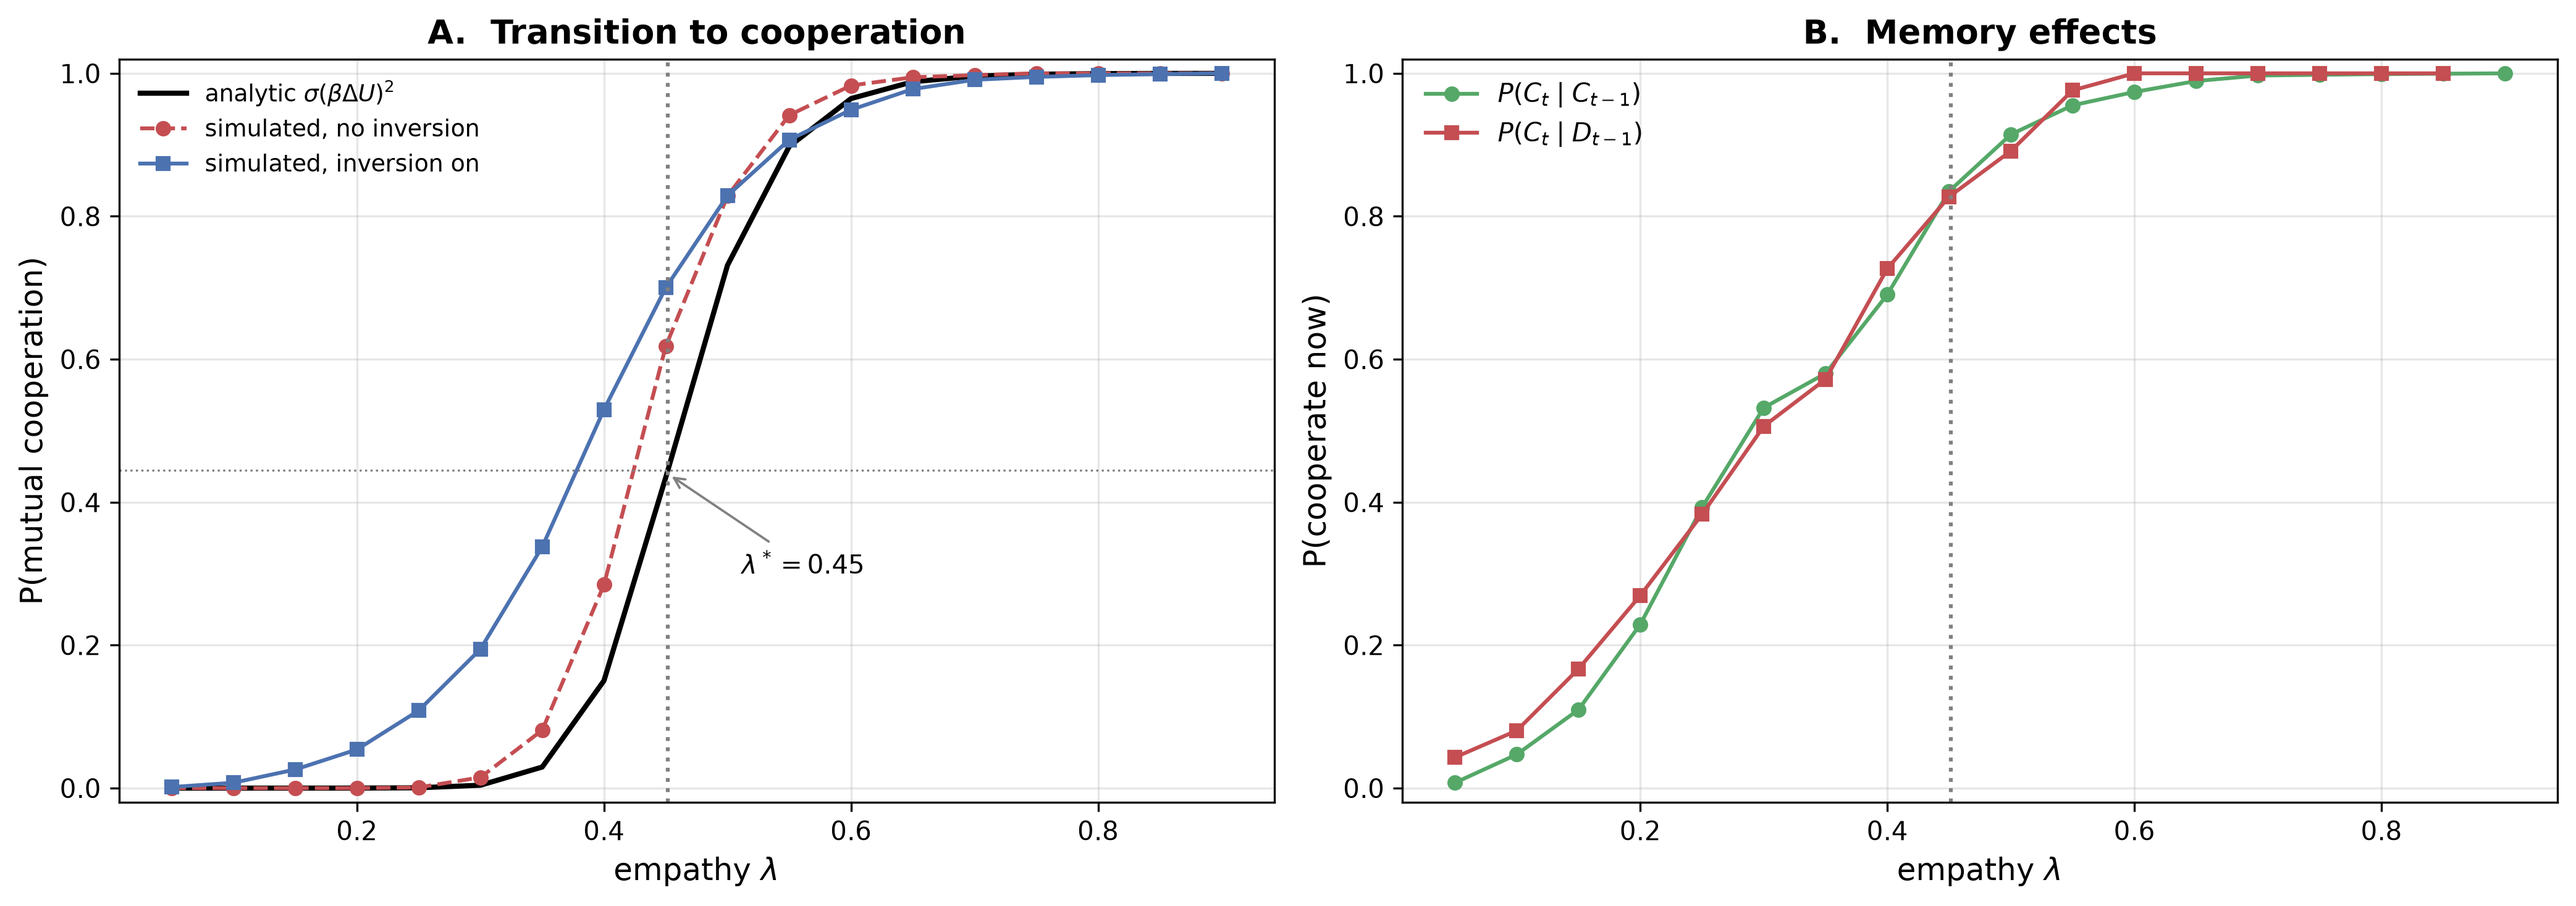
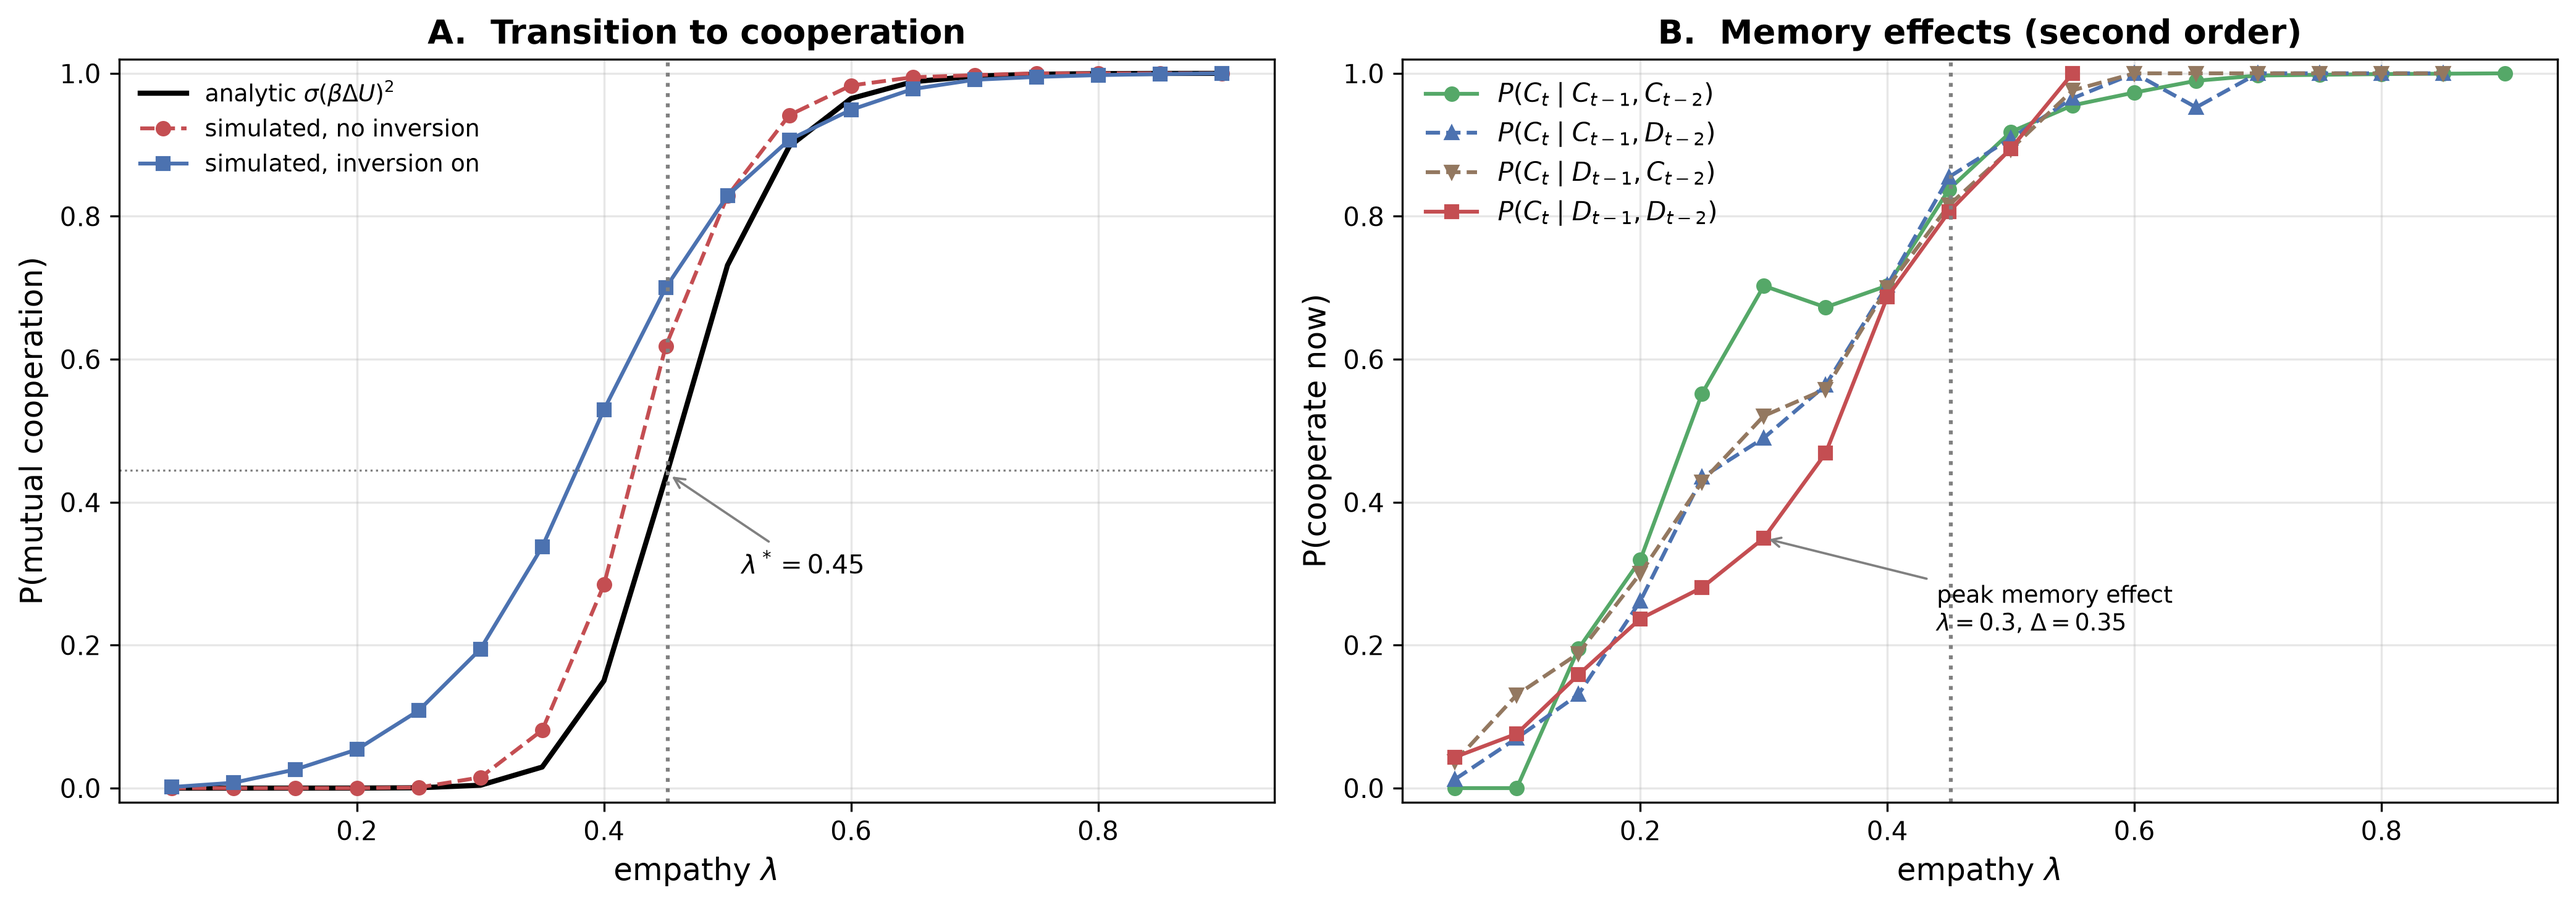
Measure the memory effect as second order, as the caption specifies
The generating code for Figure 5's right panel is not in the repository, so
my first pass invented a first-order conditional P(C_t | a_{t-1}), found it
flat, and I wrongly reported that the published memory effect did not
reproduce. Conditioning on the previous two actions, which is what 'second
order conditioning' in the caption means, the effect is large and sits
exactly where the paper says it does.

    lambda   P(C|CC)  P(C|DD)   difference
    0.10      0.000    0.076      -0.076
    0.25      0.552    0.281      +0.271
    0.30      0.703    0.350      +0.353
    0.35      0.673    0.469      +0.204
    0.40      0.703    0.687      +0.016
    0.50      0.918    0.895      +0.023

The conditionals fan apart through the transition and collapse on either
side, so the memory effect peaks where cooperation is feasible but not yet
established. At lambda = 0.1 the agent cooperates on 0.000 of rounds after
two of its own cooperations, which is the stubborn defection the caption
describes. Conditioning instead on the previous joint outcome, which is what
the agent observes, gives the same picture with a peak spread of 0.379 at
lambda = 0.3.

The first-order form averages the structure away, which is the whole reason
the manuscript specified second order.

diff --git a/scripts/generate_pcc_figure.py b/scripts/generate_pcc_figure.py
@@ -9,12 +9,15 @@ Left  -- P(CC) as a function of empathy. The analytic curve is
          assumes identical agents without learning or inversion, so the
          no-inversion simulation is the like-for-like comparison; the
          inversion-on curve is shown alongside it.
-Right -- Memory effects: probability that an agent cooperates given its own
-         previous action, which separates stubborn defection at low empathy
-         from fragile cooperation near the transition.
+Right -- Memory effects, conditioned on the agent's own previous TWO actions
+         as the manuscript's "second order conditioning" describes. A
+         first-order conditional averages this structure away and shows almost
+         nothing; the second-order one separates stubborn defection at low
+         empathy from history-contingent cooperation near the transition.
 
-No script for this figure existed in the repository; the published version
-appears to have been produced by hand.
+No script for this figure existed in the repository, so the exact statistic
+behind the published panel is not recoverable. This reimplements the caption's
+description rather than the original code.
 
 Run with the project virtualenv:
     .venv/Scripts/python.exe scripts/generate_pcc_figure.py
@@ -90,25 +93,28 @@ def simulate(lam, seed, T, inversion):
 
 
 def collect(lams, seeds, T):
-    out = {"pcc_inv": [], "pcc_noinv": [], "p_c_given_c": [], "p_c_given_d": []}
+    keys = ("CC", "CD", "DC", "DD")
+    out = {"pcc_inv": [], "pcc_noinv": [], **{k: [] for k in keys}}
     for lam in lams:
-        cc_i, cc_n, pcc, pcd = [], [], [], []
+        cc_i, cc_n = [], []
+        buckets = {k: [] for k in keys}
         for s in range(seeds):
             hi, hj = simulate(lam, s, T, True)
             cc_i.append(np.mean((hi == 0) & (hj == 0)))
-            prev, cur = hi[:-1], hi[1:]
-            if (prev == 0).any():
-                pcc.append(np.mean(cur[prev == 0] == 0))
-            if (prev == 1).any():
-                pcd.append(np.mean(cur[prev == 1] == 0))
+            # second order: condition on my previous two actions
+            for t in range(2, len(hi)):
+                k = (("C" if hi[t - 1] == 0 else "D")
+                     + ("C" if hi[t - 2] == 0 else "D"))
+                buckets[k].append(1.0 if hi[t] == 0 else 0.0)
             hi2, hj2 = simulate(lam, s, T, False)
             cc_n.append(np.mean((hi2 == 0) & (hj2 == 0)))
         out["pcc_inv"].append(float(np.mean(cc_i)))
         out["pcc_noinv"].append(float(np.mean(cc_n)))
-        out["p_c_given_c"].append(float(np.mean(pcc)) if pcc else np.nan)
-        out["p_c_given_d"].append(float(np.mean(pcd)) if pcd else np.nan)
+        for k in keys:
+            out[k].append(float(np.mean(buckets[k])) if buckets[k] else np.nan)
         print(f"  lambda {lam:.2f}  P(CC) inv {out['pcc_inv'][-1]:.3f}  "
-              f"no-inv {out['pcc_noinv'][-1]:.3f}", flush=True)
+              f"no-inv {out['pcc_noinv'][-1]:.3f}  "
+              f"memory CC-DD {out['CC'][-1] - out['DD'][-1]:+.3f}", flush=True)
     return out
 
 
@@ -133,14 +139,23 @@ def draw(lams, data, q0, q1, out_path):
     ax1.legend(fontsize=9, frameon=False)
     ax1.grid(alpha=0.3)
 
-    ax2.plot(lams, data["p_c_given_c"], "o-", color="#55A868", ms=5,
-             label=r"$P(C_t \mid C_{t-1})$")
-    ax2.plot(lams, data["p_c_given_d"], "s-", color="#C44E52", ms=5,
-             label=r"$P(C_t \mid D_{t-1})$")
+    styles = {"CC": ("#55A868", "o-"), "CD": ("#4C72B0", "^--"),
+              "DC": ("#937860", "v--"), "DD": ("#C44E52", "s-")}
+    for k, (col, st) in styles.items():
+        ax2.plot(lams, data[k], st, color=col, ms=5,
+                 label=rf"$P(C_t \mid {k[0]}_{{t-1}}, {k[1]}_{{t-2}})$")
+    gap = np.array(data["CC"]) - np.array(data["DD"])
+    peak = int(np.nanargmax(gap))
+    ax2.annotate(f"peak memory effect\n"
+                 f"$\\lambda={lams[peak]}$, $\\Delta={gap[peak]:.2f}$",
+                 xy=(lams[peak], data["DD"][peak]),
+                 xytext=(lams[peak] + 0.14, 0.22), fontsize=9,
+                 arrowprops=dict(arrowstyle="->", lw=0.9, color="grey"))
     ax2.axvline(lam_star, color="grey", ls=":", lw=1.5)
     ax2.set_xlabel(r"empathy $\lambda$", fontsize=12)
     ax2.set_ylabel("P(cooperate now)", fontsize=12)
-    ax2.set_title("B.  Memory effects", fontsize=13, fontweight="bold")
+    ax2.set_title("B.  Memory effects (second order)", fontsize=13,
+                  fontweight="bold")
     ax2.set_ylim(-0.02, 1.02)
     ax2.legend(fontsize=10, frameon=False)
     ax2.grid(alpha=0.3)
